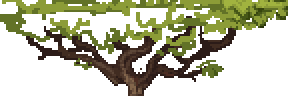
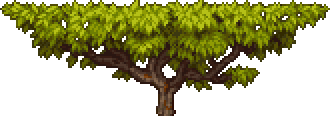
Add new acacia sprites

diff --git a/Content/Savanna/Tiles/AcaciaTree/AcaciaSapling.cs b/Content/Savanna/Tiles/AcaciaTree/AcaciaSapling.cs
@@ -17,10 +17,10 @@ public class AcaciaSapling : ModTile
 		TileObjectData.newTile.Origin = new Point16(0, 1);
 		TileObjectData.newTile.AnchorBottom = new AnchorData(AnchorType.SolidTile, TileObjectData.newTile.Width, 0);
 		TileObjectData.newTile.UsesCustomCanPlace = true;
-		TileObjectData.newTile.CoordinateHeights = new[] { 16, 18 };
+		TileObjectData.newTile.CoordinateHeights = [16, 18];
 		TileObjectData.newTile.CoordinateWidth = 16;
 		TileObjectData.newTile.CoordinatePadding = 2;
-		TileObjectData.newTile.AnchorValidTiles = new[] { ModContent.TileType<SavannaGrass>() };
+		TileObjectData.newTile.AnchorValidTiles = [ModContent.TileType<SavannaGrass>()];
 		TileObjectData.newTile.StyleHorizontal = true;
 		TileObjectData.newTile.DrawFlipHorizontal = true;
 		TileObjectData.newTile.WaterPlacement = LiquidPlacement.NotAllowed;
@@ -37,7 +37,7 @@ public class AcaciaSapling : ModTile
 		AddMapEntry(new Color(200, 200, 200), Language.GetText("MapObject.Sapling"));
 
 		DustType = DustID.WoodFurniture;
-		AdjTiles = new int[] { TileID.Saplings };
+		AdjTiles = [TileID.Saplings];
 	}
 
 	public override void NumDust(int i, int j, bool fail, ref int num) => num = fail ? 1 : 3;

diff --git a/Content/Savanna/Tiles/AcaciaTree/TreetopPlatform.cs b/Content/Savanna/Tiles/AcaciaTree/TreetopPlatform.cs
@@ -22,9 +22,9 @@ public class TreetopPlatform : SimpleEntity
 		TreePosition ??= Center.ToPoint16(); //Initialize
 		var tilePos = TreePosition.Value;
 		//Use a position convenient to acacia treetops
-		Center = tilePos.ToVector2() * 16 + new Vector2(18, -96) + CustomTree.GetPalmTreeOffset(tilePos.X, tilePos.Y);
+		Center = tilePos.ToVector2() * 16 + new Vector2(8, -112) + CustomTree.GetPalmTreeOffset(tilePos.X, tilePos.Y);
 
-		if (Framing.GetTileSafely(TreePosition.Value).TileType != ModContent.TileType<AcaciaTree>())
+		if (!ModContent.GetInstance<AcaciaTree>().IsTreeTop(TreePosition.Value.X, TreePosition.Value.Y, true))
 			Kill();
 	}
 

diff --git a/Content/Savanna/Tiles/AcaciaTree/AcaciaTree.cs b/Content/Savanna/Tiles/AcaciaTree/AcaciaTree.cs
@@ -68,7 +68,7 @@ public class AcaciaTree : CustomTree
 		if (Framing.GetTileSafely(i, j).TileType == Type && Framing.GetTileSafely(i, j - 1).TileType != Type) //Draw a treetop
 		{
 			var source = topsTexture.Frame();
-			var origin = source.Bottom() - new Vector2(8, 0);
+			var origin = source.Bottom() - new Vector2(0, 2);
 
 			spriteBatch.Draw(topsTexture.Value, position, source, Lighting.GetColor(i, j), rotation, origin, 1, SpriteEffects.None, 0);
 		}
